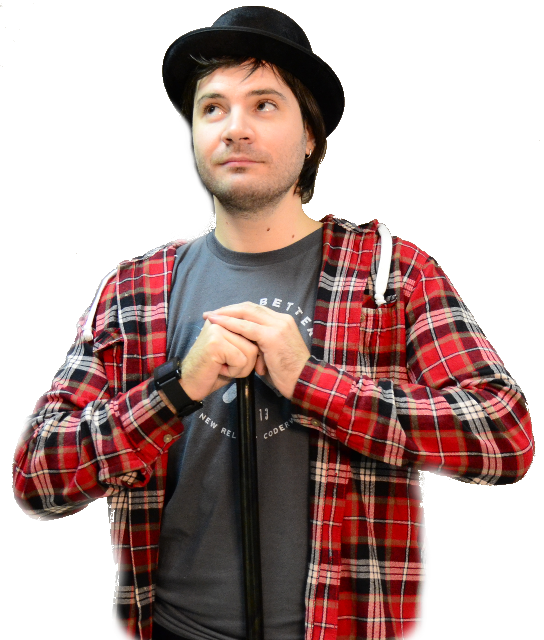
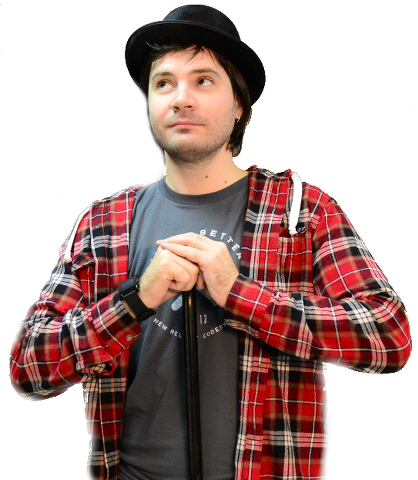
changed the way my picture is shown

diff --git a/source/stylesheets/application.css.sass b/source/stylesheets/application.css.sass
@@ -38,6 +38,19 @@ a
     color: #2d3e50
     text-decoration: none
 
+
+.content.infosec
+  padding: 1em
+  padding-bottom: 0
+  .pure-g
+    min-height: 410px
+  .image
+    position: relative
+    img
+      position: absolute
+      bottom: 0
+      right: 0%
+
 .splash-container
   background: #1f8dd6
   background: url(/images/original2.jpg) no-repeat center center fixed
